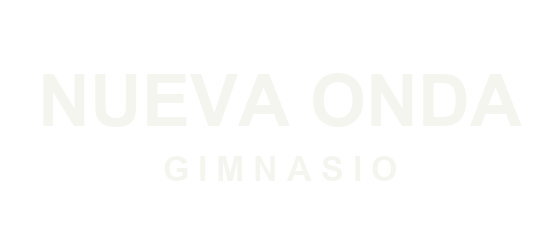
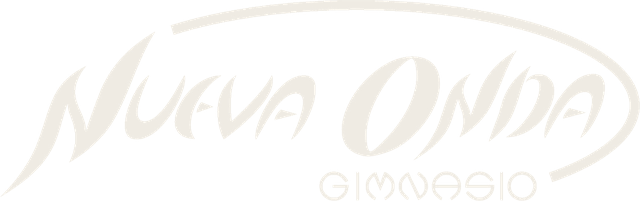
fix(marketing): mejora UX mobile y sección Descuentos Exclusivos
- Descuentos: grilla balanceada de 4 tarjetas + banner full-width del
  gimnasio (elimina la tarjeta huérfana y el espacio vacío)
- Logo real de Nueva Onda Gimnasio (PNG transparente desde fuente)
- Menú mobile: submenú "Planes" como acordeón (tap despliega, no navega)
- Anti-overflow horizontal (html/body overflow-x hidden + reset de
  márgenes negativos del .row en carruseles), corrige el corte lateral

diff --git a/assets/css/rediseno-base.css b/assets/css/rediseno-base.css
@@ -16,6 +16,12 @@
   --radius: 16px;
 }
 
+/* ---------- Anti-overflow horizontal (mobile) ---------- */
+html, body {
+  max-width: 100%;
+  overflow-x: hidden;
+}
+
 /* ---------- Botones compartidos ---------- */
 .rd-btn {
   display: inline-flex;
@@ -343,7 +349,7 @@
   .rd-nav__link:hover,
   .rd-nav__link:focus-visible { background: rgba(255, 255, 255, .1); color: #fff; }
 
-  /* Dropdown planes en mobile: siempre visible, anidado */
+  /* Dropdown planes en mobile: acordeón (colapsado por defecto) */
   .rd-dropdown__menu {
     position: static;
     opacity: 1;
@@ -351,9 +357,24 @@
     transform: none;
     box-shadow: none;
     background: rgba(0, 0, 0, .18);
+    padding: 0 .5rem;
+    margin: 0;
+    border-radius: 10px;
+    max-height: 0;
+    overflow: hidden;
+    transition: max-height .3s ease, padding .3s ease, margin .3s ease;
+  }
+  .rd-dropdown.is-expanded .rd-dropdown__menu {
+    max-height: 600px;
     padding: .25rem .5rem;
     margin: .25rem 0 .5rem;
-    border-radius: 10px;
+  }
+  /* chevron gira al abrir */
+  .rd-dropdown > .rd-nav__link .fa-chevron-down {
+    transition: transform .25s ease;
+  }
+  .rd-dropdown.is-expanded > .rd-nav__link .fa-chevron-down {
+    transform: rotate(180deg);
   }
   .rd-dropdown__item { color: rgba(255, 255, 255, .85); }
   .rd-dropdown__item:hover { background: rgba(255, 255, 255, .1); color: #fff; }

diff --git a/assets/css/rediseno-convenios.css b/assets/css/rediseno-convenios.css
@@ -341,8 +341,13 @@
    ============================================================ */
 .rd-disc-grid {
   display: grid;
-  grid-template-columns: repeat(auto-fit, minmax(200px, 1fr));
+  grid-template-columns: repeat(2, 1fr);
   gap: clamp(1rem, 2.5vw, 1.5rem);
+}
+@media (min-width: 768px) {
+  .rd-disc-grid {
+    grid-template-columns: repeat(4, 1fr);
+  }
 }
 
 .rd-disc {
@@ -435,15 +440,15 @@
 
 /* ---------- Aliado destacado: Nueva Onda Gimnasio ---------- */
 .rd-disc--gym {
-  grid-column: 1 / -1;                 /* ocupa todo el ancho de la fila */
+  grid-column: 1 / -1;                 /* fila completa, debajo de las 4 tarjetas */
   display: grid;
   grid-template-columns: 1fr;
-  gap: 1.25rem;
+  gap: 1rem;
   align-items: center;
-  text-align: left;
+  text-align: center;
   background: linear-gradient(120deg, var(--samap-neutro) 0%, #1b1b1a 100%);
   color: #fff;
-  padding: clamp(1.5rem, 3vw, 2.25rem);
+  padding: clamp(1.25rem, 2.5vw, 1.75rem);
 }
 
 .rd-disc--gym::before {
@@ -505,8 +510,9 @@
 
 @media (min-width: 600px) {
   .rd-disc--gym {
-    grid-template-columns: minmax(200px, 0.9fr) 1.4fr;
-    gap: 2rem;
+    grid-template-columns: minmax(180px, 0.7fr) 1.6fr;
+    gap: 2.5rem;
+    text-align: left;
   }
 }
 

diff --git a/assets/css/rediseno-home.css b/assets/css/rediseno-home.css
@@ -345,6 +345,10 @@
     scroll-padding-inline:12px;
     scrollbar-width:thin;
     padding-bottom:12px;
+    /* anular margenes negativos del .row de Bootstrap que desbordan la pantalla */
+    margin-left:0;
+    margin-right:0;
+    max-width:100%;
   }
   .rd-hscroll > [class*="col-"]{
     flex:0 0 46%;

diff --git a/beneficios.php b/beneficios.php
@@ -151,6 +151,11 @@
                     <h3 class="rd-disc__name">Laboratorios</h3>
                     <span class="rd-disc__pct">Hasta 20%<small>de descuento</small></span>
                 </article>
+                <article class="rd-disc rd-disc--more">
+                    <div class="rd-disc__icon"><i class="fas fa-ellipsis-h"></i></div>
+                    <h3 class="rd-disc__name">Y más</h3>
+                    <p class="rd-disc__sub">Nuevos aliados cada mes</p>
+                </article>
                 <article class="rd-disc rd-disc--gym">
                     <div class="rd-disc__brand">
                         <img src="<?php echo $URL?>documentos/aliados/nueva-onda-gimnasio.png" alt="Nueva Onda Gimnasio">
@@ -162,11 +167,6 @@
                             <li>20% en planes para alumnos del gimnasio</li>
                         </ul>
                     </div>
-                </article>
-                <article class="rd-disc rd-disc--more">
-                    <div class="rd-disc__icon"><i class="fas fa-ellipsis-h"></i></div>
-                    <h3 class="rd-disc__name">Y más</h3>
-                    <p class="rd-disc__sub">Nuevos aliados cada mes</p>
                 </article>
             </div>
 

diff --git a/convenios.php b/convenios.php
@@ -151,6 +151,11 @@
                     <h3 class="rd-disc__name">Laboratorios</h3>
                     <span class="rd-disc__pct">Hasta 20%<small>de descuento</small></span>
                 </article>
+                <article class="rd-disc rd-disc--more">
+                    <div class="rd-disc__icon"><i class="fas fa-ellipsis-h"></i></div>
+                    <h3 class="rd-disc__name">Y más</h3>
+                    <p class="rd-disc__sub">Nuevos aliados cada mes</p>
+                </article>
                 <article class="rd-disc rd-disc--gym">
                     <div class="rd-disc__brand">
                         <img src="<?php echo $URL?>documentos/aliados/nueva-onda-gimnasio.png" alt="Nueva Onda Gimnasio">
@@ -162,11 +167,6 @@
                             <li>20% en planes para alumnos del gimnasio</li>
                         </ul>
                     </div>
-                </article>
-                <article class="rd-disc rd-disc--more">
-                    <div class="rd-disc__icon"><i class="fas fa-ellipsis-h"></i></div>
-                    <h3 class="rd-disc__name">Y más</h3>
-                    <p class="rd-disc__sub">Nuevos aliados cada mes</p>
                 </article>
             </div>
 

diff --git a/header.php b/header.php
@@ -77,5 +77,19 @@
     document.addEventListener('keydown', function (e) {
         if (e.key === 'Escape') close();
     });
+
+    // Acordeón "Planes" en mobile: el link padre abre/cierra el submenú en
+    // lugar de navegar. En desktop (>991px) sigue siendo hover + link normal.
+    var dropdown = nav.querySelector('.rd-dropdown');
+    if (dropdown) {
+        var parentLink = dropdown.querySelector('.rd-nav__link');
+        parentLink.addEventListener('click', function (e) {
+            if (window.matchMedia('(max-width: 991px)').matches) {
+                e.preventDefault();
+                var open = dropdown.classList.toggle('is-expanded');
+                parentLink.setAttribute('aria-expanded', open ? 'true' : 'false');
+            }
+        });
+    }
 })();
 </script>
